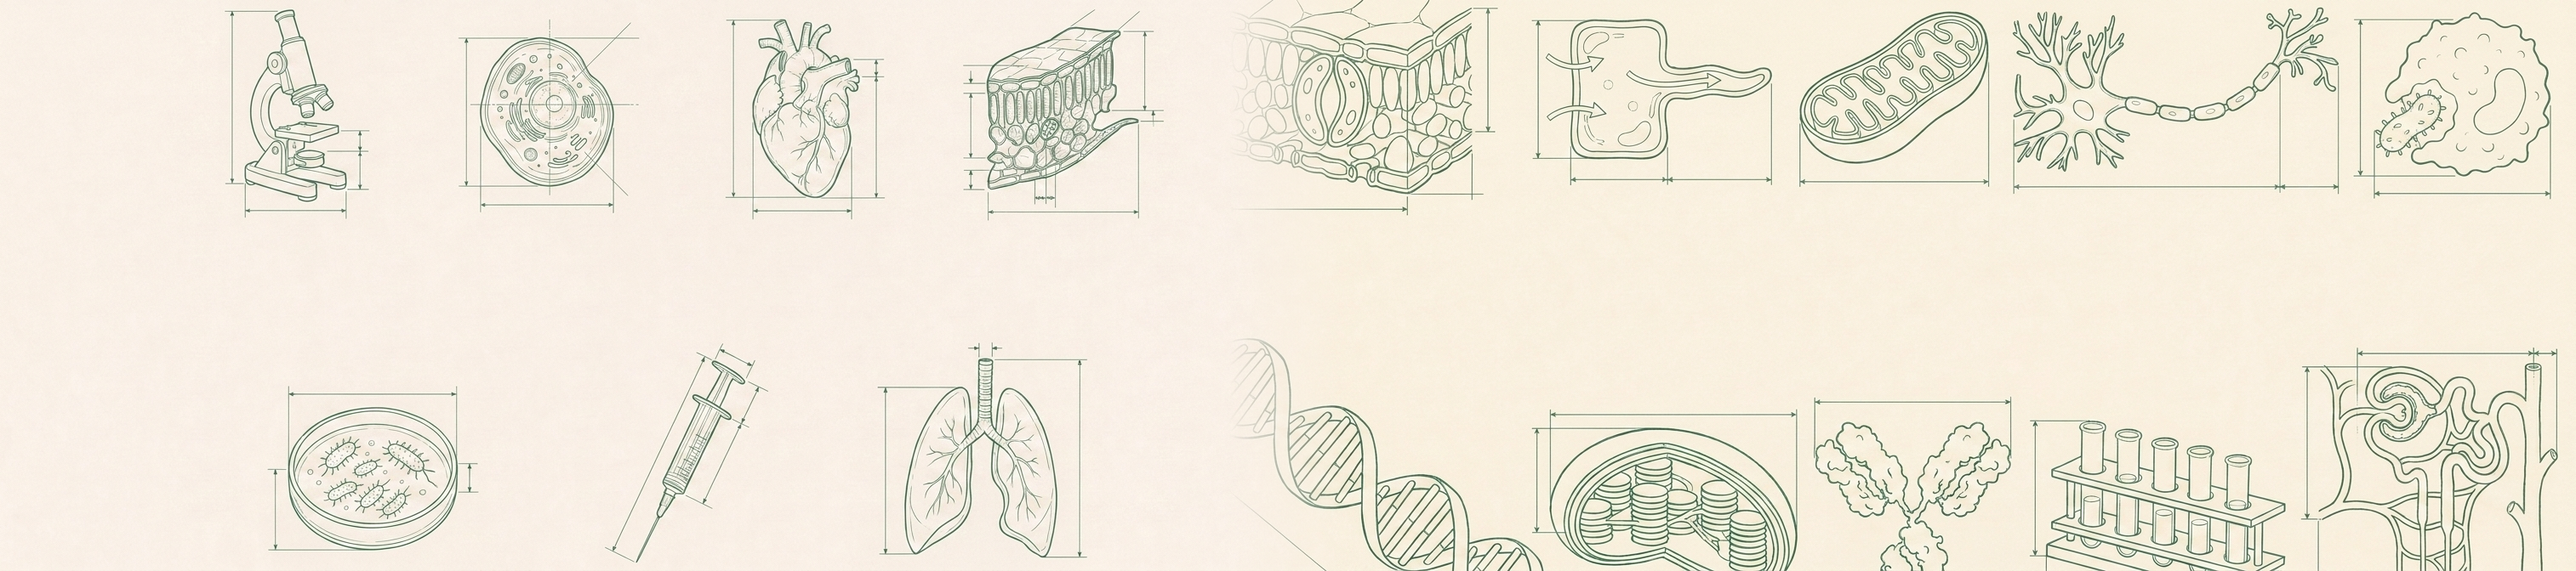
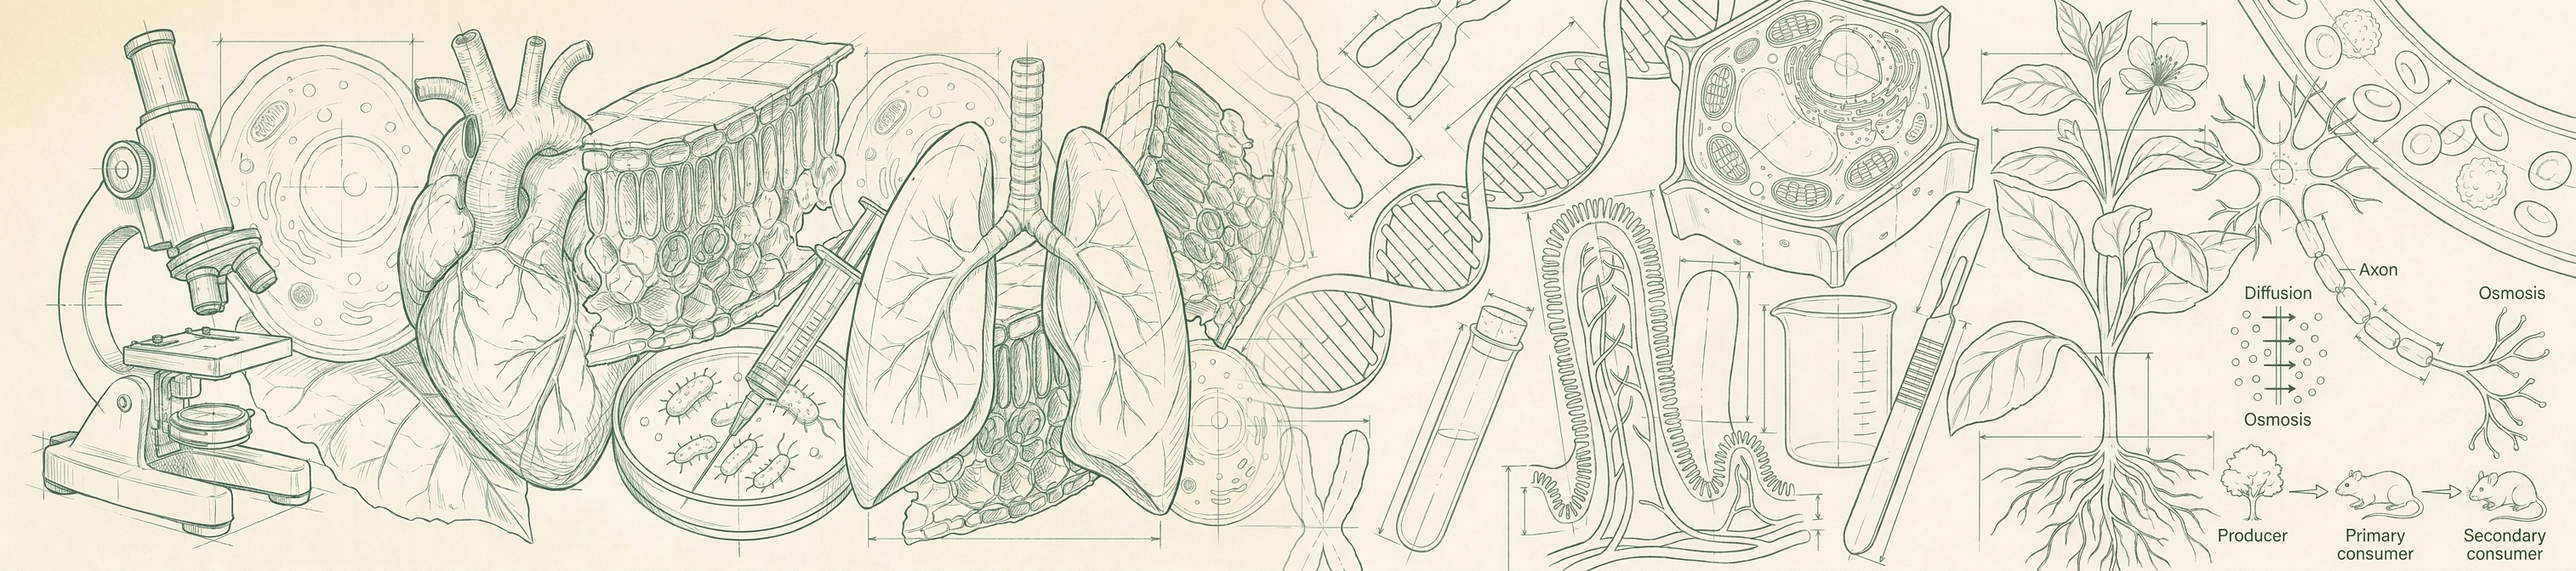
V2 Direction 2: cohesive woven art + simple straight rail (line, ticks, labels under)
- Art: regenerated cohesively — prompts now ask for ONE rich woven scene filling the
  whole band top-to-bottom (no empty centre, no top/bottom banding). Validated on
  Biology Paper 1.
- Rail: replaced the wavy in-band path with a STRAIGHT line of stops; tick/number
  buttons evenly spaced; two-line labels centred underneath, fixed width + clamp so
  they never overlap (Tom: 'a line with the buttons... labels underneath... text
  doesn't overlap').

diff --git a/design-lab/dashboard-paths-v2.html b/design-lab/dashboard-paths-v2.html
@@ -182,9 +182,9 @@
   .lane-arrow.hide{opacity:0;pointer-events:none;transform:translateY(-50%) scale(.9)}
   /* two-band lane: illustration on top, clean path rail (nodes + labels) below */
   .lane-inner{position:relative;display:flex;flex-direction:column;background:#f6f2ea}
-  .lane-art{flex:none;height:224px;background-repeat:repeat-x;background-size:auto 100%;background-position:center}
+  .lane-art{flex:none;height:222px;background-repeat:repeat-x;background-size:auto 100%;background-position:center}
   .lane-art:not(.hasart){background:linear-gradient(180deg,color-mix(in srgb,var(--acc) 9%,#fff),color-mix(in srgb,var(--acc) 3%,#fff))}
-  .lane-rail{position:relative;flex:none;height:92px;border-top:1px solid rgba(120,112,98,.14)}
+  .lane-rail{position:relative;flex:none;height:104px;border-top:1px solid rgba(120,112,98,.14)}
   /* nodes: smaller, harmonised with the muted art; the current stop is the one thing that pops */
   .lnode{position:absolute;transform:translate(-50%,-50%);cursor:pointer;z-index:2}
   .lnode .dot{border-radius:50%;display:grid;place-items:center;transition:transform .16s var(--ease),box-shadow .18s;font-family:var(--font-head);font-weight:700}
@@ -197,17 +197,13 @@
   .lnode.current .dot svg{width:20px;height:20px}
   @keyframes lpulse{0%,100%{box-shadow:0 4px 14px -4px color-mix(in srgb,var(--acc) 55%,transparent),0 0 0 4px color-mix(in srgb,var(--acc) 16%,transparent)}
     50%{box-shadow:0 4px 14px -4px color-mix(in srgb,var(--acc) 55%,transparent),0 0 0 9px color-mix(in srgb,var(--acc) 5%,transparent)}}
-  /* labels: one line, truncated, sitting in the art's empty centre band; full title on hover */
-  .lnode .lt{position:absolute;left:50%;transform:translateX(-50%);width:122px;text-align:center;white-space:nowrap;overflow:hidden;text-overflow:ellipsis;
-    font-family:var(--font-head);font-size:.745rem;font-weight:500;line-height:1.2;color:var(--text-secondary);pointer-events:none}
-  .lane-inner.hasart .lnode .lt{text-shadow:0 1px 2px #f3efe7,0 0 4px #f3efe7,0 0 8px #f3efe7}
-  .lnode.t-up .lt{bottom:calc(50% + 20px)}
-  .lnode.t-down .lt{top:calc(50% + 20px)}
-  .lnode:hover .lt{white-space:normal;overflow:visible;z-index:5;color:var(--text-primary)}
-  .lnode.current .lt{width:154px;font-weight:700;font-size:.8rem;color:var(--text-primary);white-space:normal}
-  .lnode.current.t-up .lt{bottom:calc(50% + 28px)}
-  .lnode.current.t-down .lt{top:calc(50% + 28px)}
-  .lnode .lt .pill{display:block;font-family:var(--font-head);font-size:.54rem;font-weight:700;text-transform:uppercase;letter-spacing:.08em;color:var(--acc);margin-bottom:.02rem}
+  /* labels: two lines max, fixed width centred under each stop on the clean rail — never overlap */
+  .lnode .lt{position:absolute;left:50%;transform:translateX(-50%);width:118px;text-align:center;
+    display:-webkit-box;-webkit-line-clamp:2;-webkit-box-orient:vertical;overflow:hidden;
+    font-family:var(--font-head);font-size:.73rem;font-weight:500;line-height:1.2;color:var(--text-secondary);pointer-events:none}
+  .lnode.t-down .lt{top:calc(50% + 19px)}
+  .lnode.current .lt{font-weight:700;color:var(--text-primary)}
+  .lnode .lt .pill{display:block;font-family:var(--font-head);font-size:.54rem;font-weight:700;text-transform:uppercase;letter-spacing:.08em;color:var(--acc);margin-bottom:.02rem;-webkit-line-clamp:none}
 
   .pcol{max-width:540px;margin:.2rem auto 0;padding:0 .5rem}
   .pstage-host{position:relative}
@@ -826,27 +822,27 @@
     if(wantUi>=0){ var t=wrap.querySelector('.lane[data-ui="'+wantUi+'"]'); if(t) requestAnimationFrame(function(){ t.scrollIntoView({block:'center',behavior:reduceMotion?'auto':'smooth'}); }); }
   }
   var SLIDE_ON_OPEN=true;   // on open, each lane glides to the student's next lesson, staggered one at a time
-  var ART_H=224, RAIL_H=92;   // illustration band height + clean path-rail height
+  var ART_H=222, RAIL_H=104;   // illustration band height + clean path-rail height
   function renderLane(si,ui,inner){
     var s=SHELF[si], u=s.units[ui], n=u.lessons.length;
-    var padL=80, gapX=112;
+    var padL=80, gapX=132;
     var lessonW=padL*2 + Math.max(0,n-1)*gapX;
     inner.style.height=(ART_H+RAIL_H)+'px';
     var art=inner.querySelector('.lane-art'), rail=inner.querySelector('.lane-rail');
     var landBase=bgBase(si,ui); if(landBase) landBase=landBase.replace(/\.png$/i,'-land.png');
     function build(innerW){
       inner.style.width=innerW+'px'; rail.innerHTML='';
-      var step=(n>1)?(innerW-padL*2)/(n-1):0, nodeY=RAIL_H*0.66, amp=7;   // path lives in the clean rail
+      var step=(n>1)?(innerW-padL*2)/(n-1):0, lineY=Math.round(RAIL_H*0.30);   // a STRAIGHT line of stops, labels underneath
       var conn=E('svg',{width:innerW,height:RAIL_H,viewBox:'0 0 '+innerW+' '+RAIL_H}); conn.style.cssText='position:absolute;left:0;top:0;pointer-events:none;overflow:visible;z-index:1'; rail.appendChild(conn);
-      var pos=u.lessons.map(function(L,j){ return {x:padL+j*step, y:nodeY+Math.sin(j*0.8+0.3)*amp}; });
-      function seg(a,b,stroke,wd,op,dash){ if(b<=a) return; var d='M '+pos[a].x.toFixed(1)+' '+pos[a].y.toFixed(1);
-        for(var k=a+1;k<=b;k++){ var p0=pos[k-1],p1=pos[k],mx=(p0.x+p1.x)/2; d+=' C '+mx.toFixed(1)+' '+p0.y.toFixed(1)+' '+mx.toFixed(1)+' '+p1.y.toFixed(1)+' '+p1.x.toFixed(1)+' '+p1.y.toFixed(1); }
-        var pa=E('path',{d:d,fill:'none',stroke:stroke,'stroke-width':wd,'stroke-linecap':'round',opacity:op}); if(dash) pa.setAttribute('stroke-dasharray',dash); conn.appendChild(pa); }
+      var pos=u.lessons.map(function(L,j){ return {x:padL+j*step, y:lineY}; });
+      function seg(a,b,stroke,wd,op,dash){ if(b<=a) return;
+        var pa=E('line',{x1:pos[a].x,y1:lineY,x2:pos[b].x,y2:lineY,stroke:stroke,'stroke-width':wd,'stroke-linecap':'round',opacity:op});
+        if(dash) pa.setAttribute('stroke-dasharray',dash); conn.appendChild(pa); }
       var lastDone=-1, curIdx=-1; u.lessons.forEach(function(L,j){ if(L.doneFlag) lastDone=j; else if(curIdx<0) curIdx=j; });
       seg(0,Math.max(0,lastDone),s.swatch,2.6,0.62); seg(Math.max(0,lastDone),n-1,'#cbc7c0',2,0.85,'1 6');
       u.lessons.forEach(function(L,j){
         var isCur=(j===curIdx), cls=isCur?'current':(L.doneFlag?'done':'ahead');
-        var node=document.createElement('div'); node.className='lnode t-up '+cls;   // labels sit above the rail path, on clean paper
+        var node=document.createElement('div'); node.className='lnode t-down '+cls;   // labels underneath each stop, clean paper
         node.style.left=pos[j].x+'px'; node.style.top=pos[j].y+'px';
         node.innerHTML='<span class="dot">'+(isCur?PLAY:(L.doneFlag?CHECK:L.no))+'</span><span class="lt">'+(isCur?'<span class="pill">Up next</span> ':'')+esc(L.t)+'</span>';
         node.addEventListener('click',function(){ openLesson(s,u,L); });

diff --git a/scripts/_designlab_strip.py b/scripts/_designlab_strip.py
@@ -36,9 +36,8 @@ LANE_H, PAD_L, GAP_X = 264, 78, 124
 PANO_ASPECT = 21/9                 # widest native single image
 OVERLAP = 140                      # px crossfade between stitched segments (at native height)
 
-NOPATH = ("Keep the HORIZONTAL CENTRE as a calm, open, uncluttered band of quiet warm off-white "
-          "paper — absolutely NO painted path, road, river, ribbon, line or trail of any kind "
-          "(a separate learning path is drawn on top later). ABSOLUTELY NO text, words, letters or numbers.")
+NOPATH = ("Do NOT draw any path, road, river, ribbon, line or trail. ABSOLUTELY NO text, words, "
+          "letters, numbers or labels anywhere.")
 
 def extract(resp):
     for cand in (resp.candidates or []):
@@ -95,10 +94,11 @@ def build(skey, slug, n_lessons):
     k = min(MAX_EXTENDS, n_extends_for(n_lessons))
     tmp = os.path.join(ASSETS, f"_strip-{skey}-{slug}")
     pano_prompt = (
-        f"Recompose as a WIDE horizontal banner, a single continuous illustrated scene. Use the SAME subjects "
-        f"as the picture, spread EVENLY along the length: {motifs}; render each as exactly what it is, do not "
-        f"reinterpret. Place every motif along the UPPER and LOWER edges only. {NOPATH} Full colour, soft natural "
-        f"light, warm off-white paper, gentle {word} ({hexc}) tones; far-left and far-right edges calm and open.")
+        f"Recompose as a WIDE horizontal banner: ONE rich, cohesive illustrated scene that fills the whole frame "
+        f"top to bottom. Use the SAME subjects as the picture, woven together naturally and overlapping across the "
+        f"full height and length like a detailed editorial science illustration: {motifs}; render each as exactly "
+        f"what it is, do not reinterpret. No empty bands — compose them into one connected scene. {NOPATH} Full "
+        f"colour, soft natural light, warm off-white paper, gentle {word} ({hexc}) tones.")
     print(f"[{skey}/{slug}] {n_lessons} lessons -> {k} extend(s)", flush=True)
     p0 = gen([pano_prompt, Image.open(src)], tmp + "-0.png")
     if not p0:
@@ -111,11 +111,11 @@ def build(skey, slug, n_lessons):
         # subjects. "Continue the scene" makes the model copy the objects it sees; an explicit replace doesn't.
         ext_prompt = (
             f"Make a WIDE horizontal banner in EXACTLY the same illustrated style, warm off-white paper and soft "
-            f"{word} ({hexc}) palette as the reference image, but with a COMPLETELY DIFFERENT cast of subjects. "
-            f"Do NOT draw any of these (they appear elsewhere already): {motifs}. Instead, along the TOP and BOTTOM "
-            f"edges only, draw a fresh set of other real subjects from the GCSE topic \"{uname}\" — different "
-            f"objects, organs, organisms, apparatus or diagrams that fit the topic. {NOPATH} Far-left and far-right "
-            f"edges calm and open.")
+            f"{word} ({hexc}) palette as the reference image — ONE rich cohesive scene filling the whole frame top "
+            f"to bottom — but with a COMPLETELY DIFFERENT cast of subjects. Do NOT draw any of these (they appear "
+            f"elsewhere already): {motifs}. Instead weave together a fresh set of other real subjects from the GCSE "
+            f"topic \"{uname}\" — different objects, organs, organisms, apparatus or diagrams that fit the topic, "
+            f"overlapping naturally across the full height. {NOPATH}")
         pi = gen([ext_prompt, src_img], tmp + f"-{i+1}.png")
         if not pi:
             print(f"   extend {i+1} failed, stopping early", flush=True); break
@@ -123,7 +123,6 @@ def build(skey, slug, n_lessons):
     # photo strip = the canonical composition; lower fidelity stages are ALIGNED transforms of the SAME
     # segments (same objects in the same places) so the lane can sharpen in place as mastery rises.
     keep = ("Keep the SAME objects in the SAME positions, same sizes and the same composition as the input image. "
-            "Keep the horizontal centre band empty (calm warm paper, no objects, no path). "
             "ABSOLUTELY NO text, words, letters or numbers.")
     stage_prompts = {
         "refined":   (f"Redraw this exact image as a detailed PEN-AND-INK and soft-watercolour illustration: confident "
